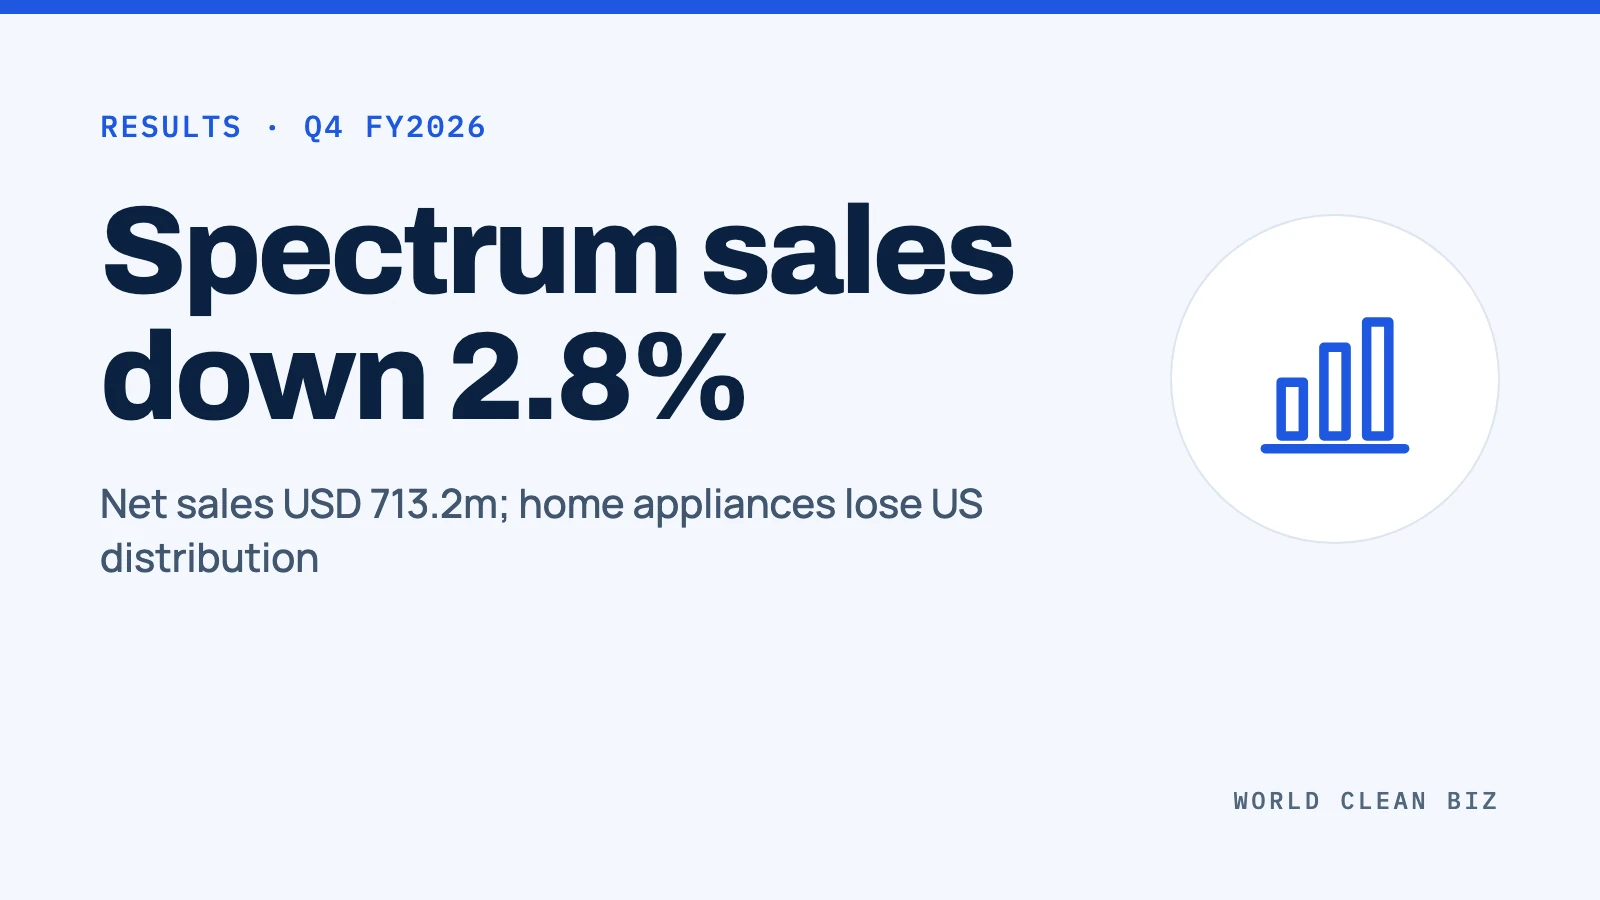
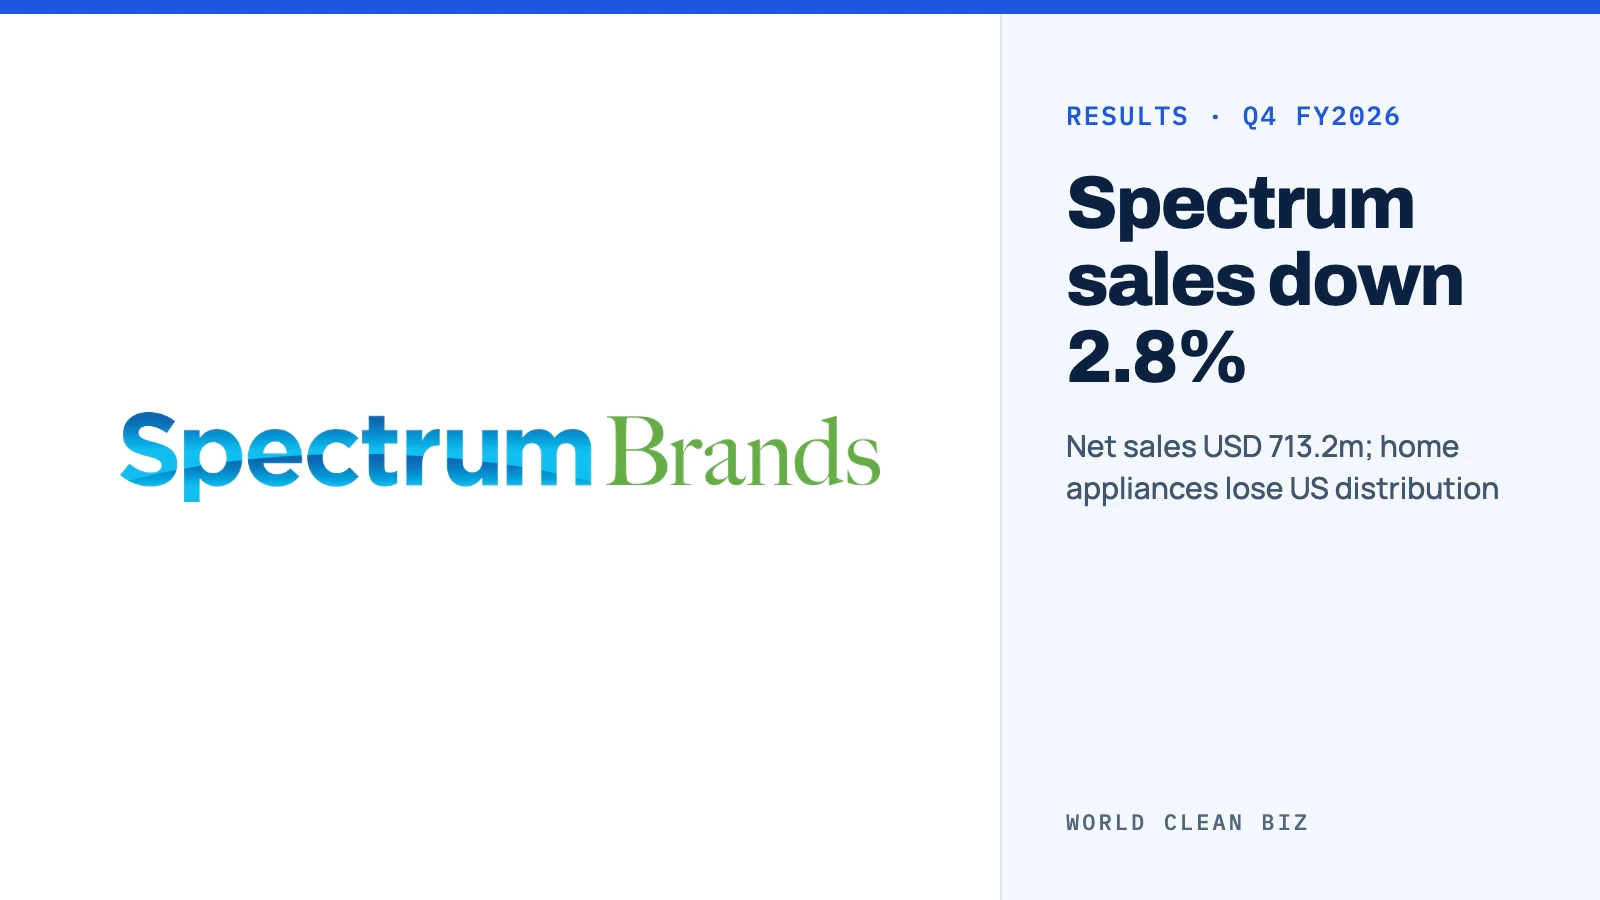
Add Spectrum Brands company profile and Q3 2026 results (#495)
- New profile /brands/spectrum-brands: official logo, two diagrams, SEC-sourced
  ownership (Empower Brands, Oaktree 27%), brands, sourcing and history
- Results row (Jul-Sep 2026, fiscal Q4) so it appears in the Q3 ranking chart
- Spectrum Q4 story cover is now the logo-led card; stories tagged to the profile
- Q3 topic: 17 companies; brand count test 118 -> 119

diff --git a/lib/newsVisuals.ts b/lib/newsVisuals.ts
@@ -124,7 +124,7 @@ export const newsStoryVisuals: Record<string, NewsVisual> = {
     "alt": "WCB topic card: Spectrum sales down 2.8%. Net sales USD 713.2m; home appliances lose US distribution",
     "kind": "coverage",
     "label": "WCB topic card",
-    "caption": "Results: Q4 FY2026. Net sales USD 713.2m; home appliances lose US distribution. Card: World Clean Biz.",
+    "caption": "Results: Q4 FY2026. Net sales USD 713.2m; home appliances lose US distribution. Spectrum Brands logo: Spectrum Brands. Card: World Clean Biz.",
     "sourceUrl": "https://www.sec.gov/Archives/edgar/data/0000109177/000010917726000042/earningsreleaseexhibit991.htm",
     "sourceLabel": "Story source: Spectrum Brands fiscal 2026 fourth-quarter results (SEC 8-K, Exhibit 99.1)",
     "fit": "cover",

diff --git a/lib/companyKeywords.ts b/lib/companyKeywords.ts
@@ -66,6 +66,7 @@ export const ANALYSIS_COMPANY_KEYWORDS = [
   keyword("Ryobi", "ryobi", ["ryobi"]),
   keyword("SharkNinja / Shark / Ninja", "sharkninja", ["sharkninja", "shark", "ninja"]),
   keyword("Silver Star", "silver-star", ["silver star"]),
+  keyword("Spectrum Brands / Empower Brands", "spectrum-brands", ["spectrum brands", "empower brands"]),
   keyword("Stanley Black & Decker / BLACK+DECKER", "stanley-black-decker", ["stanley black & decker", "stanley black and decker", "black & decker", "black+decker"]),
   keyword("STIHL", "stihl", ["stihl"]),
   keyword("Sunseeker", "sunseeker", ["sunseeker"]),

diff --git a/lib/brandCategories.ts b/lib/brandCategories.ts
@@ -330,6 +330,7 @@ export const BRAND_CATEGORIES: BrandCategory[] = [
       "russell-hobbs",
       "samsung-home-appliances",
       "sharp-appliances",
+      "spectrum-brands",
       "supor",
       "teka",
       "toshiba-appliances",
@@ -363,6 +364,7 @@ export const BRAND_CATEGORIES: BrandCategory[] = [
       "russell-hobbs",
       "samsung-home-appliances",
       "sharp-appliances",
+      "spectrum-brands",
       "supor",
       "teka",
       "toshiba-appliances",
